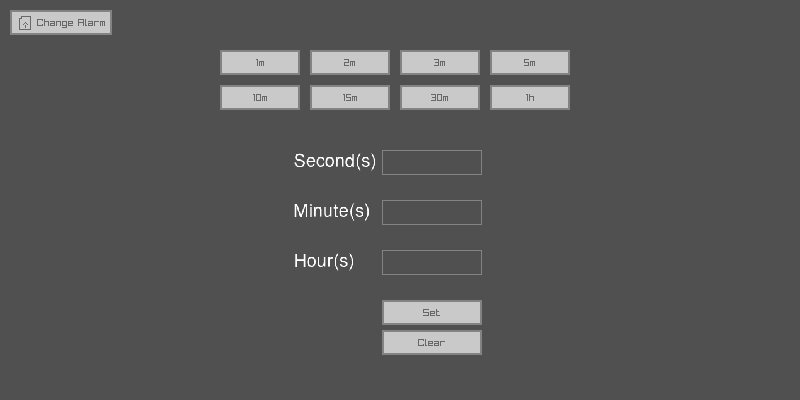
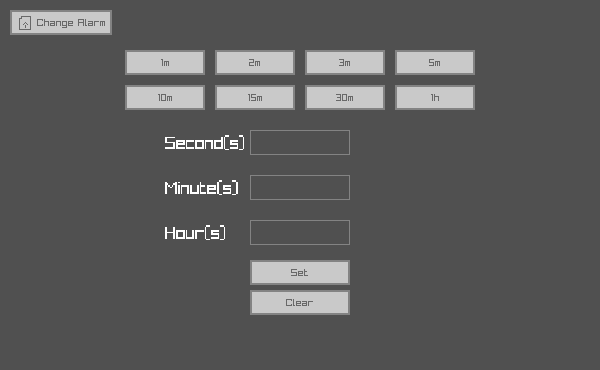
More gui improvements

diff --git a/glock.c b/glock.c
@@ -14,8 +14,8 @@
 #define GUI_WINDOW_FILE_DIALOG_IMPLEMENTATION
 #include "include/gui_window_file_dialog.h"
 
-#define WIDTH  800
-#define HEIGHT 400
+#define WIDTH  600
+#define HEIGHT 370
 
 typedef struct {
 	float hours;
@@ -444,52 +444,57 @@ int main() {
 	const int distance_between_text_box_and_button = 15;
 	const int distance_between_buttons = 5;
 
+	const int top_buttons_width = 80;
+	const int distance_between_top_buttons = 10;
+	const int top_buttons_offset = (WIDTH-((4*top_buttons_width)+(3*distance_between_top_buttons)))/2;
+
+
 	Rectangle one_minute_button_bounds = {
-		220,
+		top_buttons_offset,
 		height_offset,
-		80,
+		top_buttons_width,
 		widgets_height
 	};
 	Rectangle two_minute_button_bounds = {
-		220+80+10,
+		top_buttons_offset+top_buttons_width+distance_between_top_buttons,
 		height_offset,
-		80,
+		top_buttons_width,
 		widgets_height
 	};
 	Rectangle three_minute_button_bounds = {
-		220+80+80+10+10,
+		top_buttons_offset+top_buttons_width*2+distance_between_top_buttons*2,
 		height_offset,
-		80,
+		top_buttons_width,
 		widgets_height
 	};
 	Rectangle five_minute_button_bounds = {
-		220+80+80+80+10+10+10,
+		top_buttons_offset+top_buttons_width*3+distance_between_top_buttons*3,
 		height_offset,
-		80,
+		top_buttons_width,
 		widgets_height
 	};
 	Rectangle ten_minute_button_bounds = {
-		220,
-		height_offset+widgets_height+10,
-		80,
+		top_buttons_offset,
+		height_offset+widgets_height+distance_between_top_buttons,
+		top_buttons_width,
 		widgets_height
 	};
 	Rectangle fifteen_minute_button_bounds = {
-		220+80+10,
-		height_offset+widgets_height+10,
-		80,
+		top_buttons_offset+top_buttons_width+distance_between_top_buttons,
+		height_offset+widgets_height+distance_between_top_buttons,
+		top_buttons_width,
 		widgets_height
 	};
 	Rectangle thirty_minute_button_bounds = {
-		220+80+80+10+10,
-		height_offset+widgets_height+10,
-		80,
+		top_buttons_offset+top_buttons_width*2+distance_between_top_buttons*2,
+		height_offset+widgets_height+distance_between_top_buttons,
+		top_buttons_width,
 		widgets_height
 	};
 	Rectangle one_hour_button_bounds = {
-		220+80+80+80+10+10+10,
-		height_offset+widgets_height+10,
-		80,
+		top_buttons_offset+top_buttons_width*3+distance_between_top_buttons*3,
+		height_offset+widgets_height+distance_between_top_buttons,
+		top_buttons_width,
 		widgets_height
 	};
 
@@ -590,13 +595,14 @@ int main() {
 
 	GuiWindowFileDialogState file_dialog_state = InitGuiWindowFileDialog(GetWorkingDirectory());
 
-	const int font_size = 15;
-	Font default_font = GetFontDefault();
-	const float font_spacing = 2;
+	const int font_size = 17;
 	
+	const int time_display_font_size = 20;
+
 	Music alarm = LoadMusicStream(alarm_file_path);
 	SetMusicVolume(alarm, 0.1f);
 	PlayMusicStream(alarm);
+
 
 	while (!WindowShouldClose()) {
 		if (file_dialog_state.SelectFilePressed) {
@@ -644,9 +650,9 @@ int main() {
 		GuiTextBox2(minutes_box_bounds, minutes_box_text, 3, minutes_box_edit_mode);
 		GuiTextBox2(seconds_box_bounds, seconds_box_text, 3, seconds_box_edit_mode);
 
-		DrawTextEx(default_font, "Second(s)", (Vector2){WIDTH/2.0-100/2.0-85, seconds_box_bounds.y+5}, font_size, font_spacing, WHITE);
-		DrawTextEx(default_font, "Minute(s)", (Vector2){WIDTH/2.0-100/2.0-85, minutes_box_bounds.y+5}, font_size, font_spacing, WHITE);
-		DrawTextEx(default_font, "Hour(s)", (Vector2){WIDTH/2.0-100/2.0-85, hours_box_bounds.y+5}, font_size, font_spacing, WHITE);
+		DrawText("Second(s)", WIDTH/2.0-seconds_box_bounds.width-35, seconds_box_bounds.y+5, font_size, WHITE);
+		DrawText("Minute(s)", WIDTH/2.0-minutes_box_bounds.width-35, minutes_box_bounds.y+5, font_size, WHITE);
+		DrawText("Hour(s)", WIDTH/2.0-hours_box_bounds.width-35, hours_box_bounds.y+5, font_size, WHITE);
 
 		if (GuiButton(one_minute_button_bounds, "1m")) {
 			strcpy(minutes_box_text, "1");
@@ -727,10 +733,7 @@ int main() {
 			}
 		}
 
-		int font_size = 20;
-		int font_length = MeasureText(time_display, font_size);
-		DrawText(time_display, WIDTH/2.0-font_length/2.0, HEIGHT-40, font_size, WHITE);
-		// DrawText(time_display, WIDTH/2.0, HEIGHT-40, font_size, WHITE);
+		DrawText(time_display, WIDTH/2.0-MeasureText(time_display, time_display_font_size)/2.0, HEIGHT-40, time_display_font_size, WHITE);
 
 		if (file_dialog_state.windowActive) GuiLock();
 
